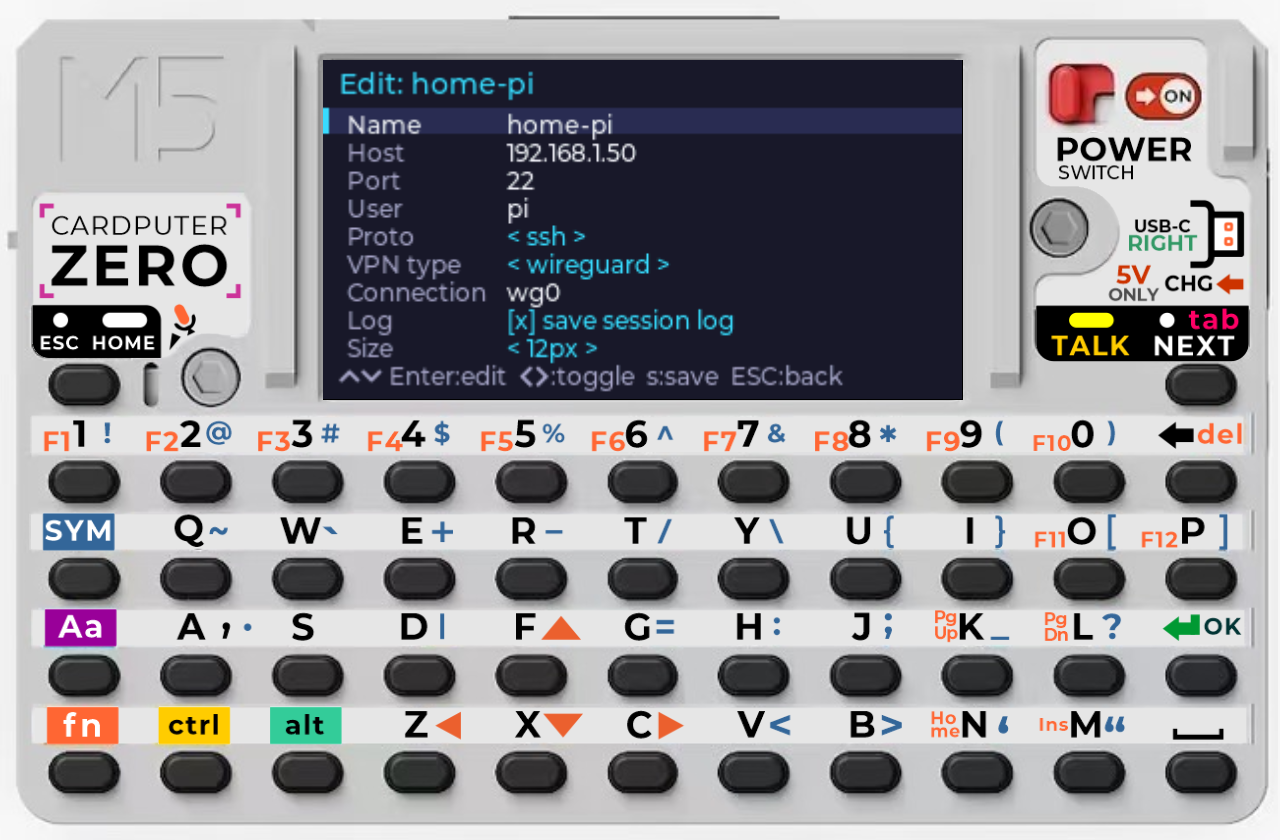
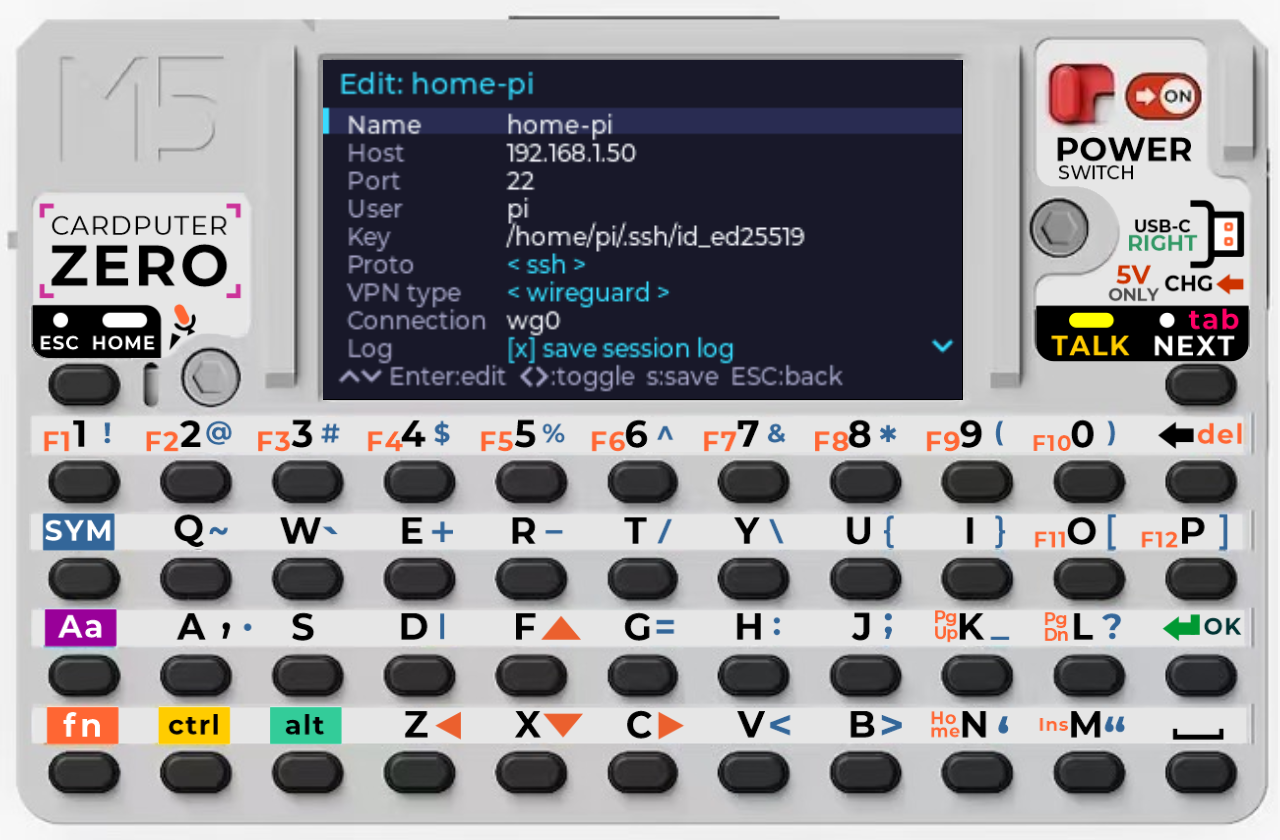
serial: format presets + Send BREAK; ssh: keep-alive + identity file; term: bold-as-bright
- serial: Format field cycles 8N1/7E1/7O1/8N2 -> picocom -d/-y/-p;
  Session Menu gains "Send BREAK" (serial sessions only; picocom
  escape C-a C-b — verify on device) for router password recovery.
  Menu items are now built per open (dynamic list).
- ssh: ServerAliveInterval=30/CountMax=3 always on so flaky-link
  drops surface as DISCONNECTED within ~90s; optional per-profile
  Key field -> `-i <path>`.
- term.c: bold attribute brightens the foreground (bold-as-bright),
  no bold face needed.
- Manual: editor/serial screenshots regenerated (Key/Format rows),
  EN/JA editor strip, BREAK menu row, checklist items; PDF regen.

Changed region(s): [[0.25, 0.2476, 0.625, 0.4333], [0.7188, 0.4024, 0.75, 0.4333]]

diff --git a/src/main.c b/src/main.c
@@ -323,7 +323,7 @@ static void show_profiles(void)
 /* ---------------- editor (fields vary by VPN type, iPhone-style) ---------------- */
 typedef struct {
     const char *en, *ja;
-    int    kind;    /* 0=text 1=proto 2=vpntype 3=log 4=size */
+    int    kind;    /* 0=text 1=proto 2=vpntype 3=log 4=size 5=serial-format */
     char  *buf;     /* text storage (kind 0) */
     size_t sz;
     int    secret;  /* mask the value (password/secret) */
@@ -340,7 +340,10 @@ static void build_fields(profile_t *p)
     EF("Name","名前",0,p->name,sizeof p->name,0);
     EF(serial ? "Device" : "Host", serial ? "デバイス" : "ホスト",0,p->host,sizeof p->host,0);
     EF(serial ? "Baud"   : "Port", serial ? "ボーレート" : "ポート",0,p->port,sizeof p->port,0);
+    if (serial) EF("Format","形式",5,0,0,0);            /* 8N1 / 7E1 / 7O1 / 8N2 */
     if (!serial) EF("User","ユーザ",0,p->user,sizeof p->user,0);
+    if (!strcmp(p->proto, "ssh"))
+        EF("Key","鍵ファイル",0,p->key,sizeof p->key,0); /* optional identity (-i) */
     EF("Proto","接続種別",1,0,0,0);
     if (!serial) {   /* VPN is meaningless for a local serial console */
         EF("VPN type","VPN方式",2,0,0,0);
@@ -369,6 +372,7 @@ static void field_value(profile_t *p, int f, char *out, size_t n)
     case 2: snprintf(out, n, "< %s >", p->vpn_type[0] ? p->vpn_type : "none"); break;
     case 3: snprintf(out, n, tr("[%s] save session log","[%s] セッションログ保存"), p->log ? "x" : " "); break;
     case 4: snprintf(out, n, "< %spx >", p->size[0] ? p->size : "12"); break;
+    case 5: snprintf(out, n, "< %s >", p->sfmt[0] ? p->sfmt : "8N1"); break;
     default:
         if (e->secret && e->buf && e->buf[0]) snprintf(out, n, "********");
         else snprintf(out, n, "%s", (e->buf && e->buf[0]) ? e->buf : tr("(none)","(なし)"));
@@ -438,6 +442,12 @@ static void editor_toggle(profile_t *p, int dir)
     case 4: {
         int idx = (size_to_idx(p->size) + (dir >= 0 ? 1 : 2)) % 3;
         snprintf(p->size, sizeof(p->size), "%d", SIZES[idx]); break; }
+    case 5: {   /* serial format presets (network-gear console defaults) */
+        static const char *const SFMTS[] = { "8N1", "7E1", "7O1", "8N2" };
+        int m = 4, cur = 0;
+        for (int i = 0; i < m; i++) if (!strcmp(p->sfmt, SFMTS[i])) cur = i;
+        snprintf(p->sfmt, sizeof(p->sfmt), "%s", SFMTS[(cur + (dir >= 0 ? 1 : m - 1)) % m]);
+        break; }
     }
 }
 
@@ -958,15 +968,33 @@ static void term_alt_scroll(uint32_t base)
     scroll_hint(term_scroll_pos() > 0);
 }
 
-#define MENU_N 6
-static const char *menu_label(int i)
+/* menu items are built per open: BREAK appears only for a serial console */
+enum { MI_SEND, MI_FONT, MI_MACROS, MI_LOG, MI_BREAK, MI_CLOSE, MI_BACK };
+static int g_menu_items[8], g_menu_n;
+
+static void build_menu(void)
 {
-    switch (i) {
-    case 0: return tr("Send file...","ファイル流し込み...");
-    case 2: return tr("Macros...","マクロ...");
-    case 3: return tr("Toggle log","ログ ON/OFF");
-    case 4: return tr("Close session","切断");
-    case 5: return tr("Back","戻る");
+    int n = 0;
+    g_menu_items[n++] = MI_SEND;
+    g_menu_items[n++] = MI_FONT;
+    g_menu_items[n++] = MI_MACROS;
+    g_menu_items[n++] = MI_LOG;
+    const profile_t *p = config_get(g_cur_pidx);
+    if (p && !strcmp(p->proto, "serial")) g_menu_items[n++] = MI_BREAK;
+    g_menu_items[n++] = MI_CLOSE;
+    g_menu_items[n++] = MI_BACK;
+    g_menu_n = n;
+}
+
+static const char *menu_label(int id)
+{
+    switch (id) {
+    case MI_SEND:   return tr("Send file...","ファイル流し込み...");
+    case MI_MACROS: return tr("Macros...","マクロ...");
+    case MI_LOG:    return tr("Toggle log","ログ ON/OFF");
+    case MI_BREAK:  return tr("Send BREAK","BREAK送信");
+    case MI_CLOSE:  return tr("Close session","切断");
+    case MI_BACK:   return tr("Back","戻る");
     }
     return "";
 }
@@ -974,20 +1002,24 @@ static const char *menu_label(int i)
 static void open_menu(void)   /* uses current g_menu_sel (caller resets for a fresh open) */
 {
     g_scr = SCR_MENU;
-    g_overlay = overlay_panel(200, 144);
+    build_menu();
+    if (g_menu_sel >= g_menu_n) g_menu_sel = g_menu_n - 1;
+    g_overlay = overlay_panel(200, 36 + g_menu_n * 18);
     lv_obj_t *t = lv_label_create(g_overlay);
     lv_obj_set_style_text_font(t, ui_font(14), 0);
     lv_obj_set_style_text_color(t, lv_color_hex(COL_TITLE), 0);
     lv_obj_set_pos(t, 8, 4);
     lv_label_set_text(t, tr("Session","セッション"));
-    for (int i = 0; i < MENU_N; i++) {
+    for (int i = 0; i < g_menu_n; i++) {
         lv_obj_t *l = lv_label_create(g_overlay);
         lv_obj_set_style_text_font(l, ui_font(12), 0);
         lv_obj_set_style_text_color(l, lv_color_hex(i == g_menu_sel ? COL_TEXT : COL_DIM), 0);
         lv_obj_set_pos(l, 12, 24 + i * 18);
         char lbl[48];
-        if (i == 1) snprintf(lbl, sizeof(lbl), tr("Font size  < %dpx >","文字サイズ < %dpx >"), SIZES[g_size_idx]);
-        else        snprintf(lbl, sizeof(lbl), "%s", menu_label(i));
+        if (g_menu_items[i] == MI_FONT)
+            snprintf(lbl, sizeof(lbl), tr("Font size  < %dpx >","文字サイズ < %dpx >"), SIZES[g_size_idx]);
+        else
+            snprintf(lbl, sizeof(lbl), "%s", menu_label(g_menu_items[i]));
         lv_label_set_text(l, lbl);
     }
 }
@@ -1127,26 +1159,32 @@ static void key_menu(uint32_t k)
 {
     switch (k) {
     case LV_KEY_UP:    if (g_menu_sel > 0) { g_menu_sel--; open_menu(); } break;
-    case LV_KEY_DOWN:  if (g_menu_sel < MENU_N - 1) { g_menu_sel++; open_menu(); } break;
+    case LV_KEY_DOWN:  if (g_menu_sel < g_menu_n - 1) { g_menu_sel++; open_menu(); } break;
     case LV_KEY_ESC:   close_overlay(); break;
     case LV_KEY_ENTER:
-        switch (g_menu_sel) {
-        case 0: g_file_sel = 0;                                /* Send file */
+        switch (g_menu_items[g_menu_sel]) {
+        case MI_SEND: g_file_sel = 0;
             snprintf(g_browse_dir, sizeof(g_browse_dir), "%s", filedir());
             open_files(); break;
-        case 1:                                               /* Font size (live) */
+        case MI_FONT:                                         /* Font size (live) */
             load_font_idx((g_size_idx + 1) % 3);
             term_resize(g_mono, g_cols, g_rows, g_cw, g_ch);
             open_menu();                                      /* refresh label */
             break;
-        case 2: g_mac_sel = 0; open_macros(); break;          /* Macros (overlay; term stays behind) */
-        case 3:                                               /* Toggle log */
+        case MI_MACROS: g_mac_sel = 0; open_macros(); break;  /* overlay; term stays behind */
+        case MI_LOG:
             if (logsink_is_open()) logsink_close();
             else logsink_open(config_get(g_cur_pidx) ? config_get(g_cur_pidx)->name : "session");
             close_overlay();
             break;
-        case 4: close_overlay(); end_session(); break;
-        case 5: close_overlay(); break;
+        case MI_BREAK:
+            /* picocom escape: C-a C-b = send BREAK (router password recovery).
+             * Device checklist: verify the sequence against the installed picocom. */
+            term_send_bytes("\x01\x02", 2);
+            close_overlay();
+            break;
+        case MI_CLOSE: close_overlay(); end_session(); break;
+        case MI_BACK:  close_overlay(); break;
         }
         break;
     }

diff --git a/src/config.c b/src/config.c
@@ -28,6 +28,8 @@ static void set_field(profile_t *p, const char *key, const char *val)
     else if (!strcmp(key, "host"))  snprintf(p->host, sizeof(p->host), "%s", val);
     else if (!strcmp(key, "port"))  snprintf(p->port, sizeof(p->port), "%s", val);
     else if (!strcmp(key, "user"))  snprintf(p->user, sizeof(p->user), "%s", val);
+    else if (!strcmp(key, "key"))   snprintf(p->key, sizeof(p->key), "%s", val);
+    else if (!strcmp(key, "sfmt"))  snprintf(p->sfmt, sizeof(p->sfmt), "%s", val);
     else if (!strcmp(key, "vpn_type")) snprintf(p->vpn_type, sizeof(p->vpn_type), "%s", val);
     else if (!strcmp(key, "vpn"))   snprintf(p->vpn, sizeof(p->vpn), "%s", val);
     /* legacy vpn_server/user/pass/secret keys are intentionally ignored — secrets
@@ -118,6 +120,8 @@ int config_save(void)
         fprintf(f, "p%d.host=%s\n",  i, p->host);
         fprintf(f, "p%d.port=%s\n",  i, p->port);
         fprintf(f, "p%d.user=%s\n",  i, p->user);
+        fprintf(f, "p%d.key=%s\n",   i, p->key);
+        fprintf(f, "p%d.sfmt=%s\n",  i, p->sfmt[0] ? p->sfmt : "8N1");
         fprintf(f, "p%d.vpn_type=%s\n", i, p->vpn_type[0] ? p->vpn_type : "none");
         fprintf(f, "p%d.vpn=%s\n",   i, p->vpn);   /* OS-side connection name; no secrets */
         fprintf(f, "p%d.log=%d\n",   i, p->log);
@@ -194,38 +198,58 @@ void config_macro_delete(int i)
 
 const char *const *config_argv(int i)
 {
-    static char a0[64], a1[8], a2[16], a3[192];
-    static const char *argv[6];
+    static char sh[64], dest[192], port[16], keyp[96];
+    static char db[4], par[4], sb[4];       /* serial: databits / parity / stopbits */
+    static const char *argv[14];
     const profile_t *p = config_get(i);
     if (!p) return NULL;
+    int n = 0;
 
     if (!strcmp(p->proto, "shell")) {
-        const char *sh = getenv("SHELL");
-        snprintf(a0, sizeof(a0), "%s", (sh && *sh) ? sh : "/bin/sh");
-        argv[0] = a0; argv[1] = NULL;
+        const char *s = getenv("SHELL");
+        snprintf(sh, sizeof(sh), "%s", (s && *s) ? s : "/bin/sh");
+        argv[n++] = sh;
+        argv[n] = NULL;
         return argv;
     }
     if (!strcmp(p->proto, "telnet")) {
-        snprintf(a0, sizeof(a0), "telnet");
-        snprintf(a3, sizeof(a3), "%s", p->host);
-        snprintf(a2, sizeof(a2), "%s", p->port[0] ? p->port : "23");
-        argv[0] = a0; argv[1] = a3; argv[2] = a2; argv[3] = NULL;
+        snprintf(dest, sizeof(dest), "%s", p->host);
+        snprintf(port, sizeof(port), "%s", p->port[0] ? p->port : "23");
+        argv[n++] = "telnet"; argv[n++] = dest; argv[n++] = port;
+        argv[n] = NULL;
         return argv;
     }
-    if (!strcmp(p->proto, "serial")) {   /* USB-serial console via picocom (host=device, port=baud) */
-        snprintf(a0, sizeof(a0), "picocom");
-        snprintf(a1, sizeof(a1), "-b");
-        snprintf(a2, sizeof(a2), "%s", p->port[0] ? p->port : "115200");
-        snprintf(a3, sizeof(a3), "%s", p->host[0] ? p->host : "/dev/ttyUSB0");
-        argv[0] = a0; argv[1] = a1; argv[2] = a2; argv[3] = a3; argv[4] = NULL;
+    if (!strcmp(p->proto, "serial")) {
+        /* USB-serial console via picocom (host=device, port=baud, sfmt=8N1 etc.) */
+        const char *f = (p->sfmt[0] && p->sfmt[1] && p->sfmt[2]) ? p->sfmt : "8N1";
+        snprintf(port, sizeof(port), "%s", p->port[0] ? p->port : "115200");
+        snprintf(dest, sizeof(dest), "%s", p->host[0] ? p->host : "/dev/ttyUSB0");
+        snprintf(db,  sizeof(db),  "%c", f[0]);                      /* 7 | 8 */
+        snprintf(par, sizeof(par), "%c", f[1] == 'E' ? 'e' : f[1] == 'O' ? 'o' : 'n');
+        snprintf(sb,  sizeof(sb),  "%c", f[2]);                      /* 1 | 2 */
+        argv[n++] = "picocom";
+        argv[n++] = "-b"; argv[n++] = port;
+        argv[n++] = "-d"; argv[n++] = db;
+        argv[n++] = "-y"; argv[n++] = par;
+        argv[n++] = "-p"; argv[n++] = sb;
+        argv[n++] = dest;
+        argv[n] = NULL;
         return argv;
     }
-    /* ssh (default) */
-    snprintf(a0, sizeof(a0), "ssh");
-    snprintf(a1, sizeof(a1), "-p");
-    snprintf(a2, sizeof(a2), "%s", p->port[0] ? p->port : "22");
-    if (p->user[0]) snprintf(a3, sizeof(a3), "%s@%s", p->user, p->host);
-    else            snprintf(a3, sizeof(a3), "%s", p->host);
-    argv[0] = a0; argv[1] = a1; argv[2] = a2; argv[3] = a3; argv[4] = NULL;
+    /* ssh (default): keep-alive so flaky field Wi-Fi drops are detected, and an
+     * optional per-profile identity file. */
+    snprintf(port, sizeof(port), "%s", p->port[0] ? p->port : "22");
+    if (p->user[0]) snprintf(dest, sizeof(dest), "%s@%s", p->user, p->host);
+    else            snprintf(dest, sizeof(dest), "%s", p->host);
+    argv[n++] = "ssh";
+    argv[n++] = "-p"; argv[n++] = port;
+    argv[n++] = "-o"; argv[n++] = "ServerAliveInterval=30";
+    argv[n++] = "-o"; argv[n++] = "ServerAliveCountMax=3";
+    if (p->key[0]) {
+        snprintf(keyp, sizeof(keyp), "%s", p->key);
+        argv[n++] = "-i"; argv[n++] = keyp;
+    }
+    argv[n++] = dest;
+    argv[n] = NULL;
     return argv;
 }

diff --git a/src/term.c b/src/term.c
@@ -86,7 +86,8 @@ static uint32_t cell_rgb(VTermScreenCell *cell)
     return ((uint32_t)c.rgb.red << 16) | ((uint32_t)c.rgb.green << 8) | c.rgb.blue;
 }
 
-/* fg/bg (as RGB) + underline for a live cell, applying reverse-video (swap fg/bg). */
+/* fg/bg (as RGB) + underline for a live cell: bold brightens the foreground
+ * ("bold as bright", no bold face needed), then reverse-video swaps fg/bg. */
 static void cell_colors(VTermScreenCell *cell, uint32_t *fg, uint32_t *bg, int *ul)
 {
     VTermColor f = cell->fg, b = cell->bg;
@@ -94,6 +95,11 @@ static void cell_colors(VTermScreenCell *cell, uint32_t *fg, uint32_t *bg, int *
     vterm_screen_convert_color_to_rgb(g.vts, &b);
     uint32_t frgb = ((uint32_t)f.rgb.red << 16) | ((uint32_t)f.rgb.green << 8) | f.rgb.blue;
     uint32_t brgb = ((uint32_t)b.rgb.red << 16) | ((uint32_t)b.rgb.green << 8) | b.rgb.blue;
+    if (cell->attrs.bold) {
+        uint32_t r = (frgb >> 16) & 0xFF, gg = (frgb >> 8) & 0xFF, bl = frgb & 0xFF;
+        r += (255 - r) / 3; gg += (255 - gg) / 3; bl += (255 - bl) / 3;
+        frgb = (r << 16) | (gg << 8) | bl;
+    }
     if (cell->attrs.reverse) { uint32_t t = frgb; frgb = brgb; brgb = t; }
     *fg = frgb; *bg = brgb; *ul = cell->attrs.underline ? 1 : 0;
 }

diff --git a/src/config.h b/src/config.h
@@ -12,6 +12,8 @@ typedef struct {
     char host[128];
     char port[8];
     char user[64];
+    char key[96];    /* ssh identity file (-i); empty = default keys/password */
+    char sfmt[4];    /* serial format preset: 8N1 (default) | 7E1 | 7O1 | 8N2 */
     char vpn_type[12]; /* none|wireguard|openvpn|ikev2|l2tp|tailscale */
     char vpn[96];    /* OS-side connection/config NAME to bring up. Secrets live in
                       * the OS (NetworkManager / /etc/wireguard …), never stored here. */

diff --git a/docs/MANUAL.md b/docs/MANUAL.md
@@ -50,6 +50,7 @@
 |------|------|
 | Name | 表示名 |
 | Host / Port / User | 接続先 |
+| Key | SSH の**秘密鍵ファイル**のパス（任意、ssh 時のみ表示 → `-i` で使用。空なら既定鍵/パスワード） |
 | Proto | `ssh / telnet / shell / serial`（`←→`で切替） |
 | **VPN type** | `none / WireGuard / OpenVPN / IKEv2 / L2TP / Tailscale`（iPhone風に`←→`で選択） |
 | **Connection** | OS側 VPN 接続の**名前**（NM接続名 / wg・ovpn の config名 / ipsec connection名）。**秘密情報は入力せず OS が保持**。Tailscale は不要 |
@@ -58,9 +59,13 @@
 
 操作：`↑↓`項目移動 / `Enter`テキスト編集（物理キーボードで入力→`Enter`確定）/ `←→`選択項目の切替 / `s`保存 / `ESC`戻る。
 
-> **serial（USB-シリアルコンソール）**：Proto を `serial` にすると項目が **Device**（例 `/dev/ttyUSB0`）と
-> **Baud**（例 `9600`/`115200`）に変わります（User/VPN は非表示）。接続すると `picocom` でシリアルコンソールに
-> つながります（実機に `apt install picocom` が必要）。網機器のコンソールポート接続用です。
+> **serial（USB-シリアルコンソール）**：Proto を `serial` にすると項目が **Device**（例 `/dev/ttyUSB0`）・
+> **Baud**（例 `9600`/`115200`）・**Format**（`8N1`/`7E1`/`7O1`/`8N2` を `←→` で選択）に変わります
+> （User/VPN は非表示）。接続すると `picocom` でシリアルコンソールにつながります（実機に
+> `apt install picocom` が必要）。網機器のコンソールポート接続用で、Session Menu の **Send BREAK** で
+> BREAK 信号も送れます（ルータのパスワードリカバリ等）。
+>
+> ssh は **keep-alive を常時付与**（`ServerAliveInterval=30`）するため、回線断は約90秒以内に切断として検知されます。
 
 ![serial プロファイル編集](manual/12_serial.png)
 
@@ -100,6 +105,7 @@
 | Font size `< 12px >` | フォントサイズを実行中に変更 |
 | Macros... | 登録済みコマンドを選んで送信（→ 5b章） |
 | Toggle log | ログ保存のON/OFF |
+| Send BREAK | **BREAK信号を送出**（serial 接続時のみ表示。パスワードリカバリ等） |
 | Close session | セッション終了→一覧へ |
 | Back | メニューを閉じる |
 

diff --git a/docs/FEATURES.md b/docs/FEATURES.md
@@ -9,7 +9,7 @@
 |------|:--:|
 | **libvterm(MIT)** によるVT100/ANSI完全エミュレーション（カーソル/消去/スクロール領域/挿入削除/alt-screen/DECモード/DA・DSR応答/アプリカーソルキー） | ✅ |
 | **自前 forkpty** によるPTY子プロセス管理（著作権クリーン、launcherコード非流用） | ✅ |
-| **SGRカラー**（8/16/256色・truecolor、**前景＋背景色・反転(reverse)・下線**、色ラン毎ラベル描画、既定は緑/黒＝ネイティブ忠実） | ✅ |
+| **SGRカラー**（8/16/256色・truecolor、**前景＋背景色・反転(reverse)・下線・太字（明色化）**、色ラン毎ラベル描画、既定は緑/黒＝ネイティブ忠実） | ✅ |
 | 等幅フォント = **Liberation Mono 12px → 45桁×12行**（実機常駐をfreetype読込、unscii_8フォールバック） | ✅ |
 | ブロックカーソル、readerスレッド＋40ms描画タイマ＋dirty差分 | ✅ |
 | **スクロールバック**（400行リングバッファ）：**Alt+↑↓=1行 / Alt+←→=1画面** で履歴を遡る（ライブ維持）・入力で最新へ復帰・履歴表示中はヒントバー | ✅ |
@@ -20,7 +20,10 @@
 | 機能 | 状態 |
 |------|:--:|
 | プロトコル選択：**ssh / telnet / shell（ローカル端末）/ serial（USB-シリアルコンソール）** | ✅ |
-| **serial**：`picocom -b <baud> <device>` を実行（プロファイルの Host→デバイス `/dev/ttyUSB0`、Port→ボーレート に流用。User/VPN欄は非表示） | ✅(argv) / ⏳(実機picocom) |
+| **serial**：`picocom -b <baud> -d/-y/-p <fmt> <device>` を実行（Host→デバイス、Port→ボーレート。**Format プリセット 8N1/7E1/7O1/8N2**。User/VPN欄は非表示） | ✅(argv) / ⏳(実機picocom) |
+| **serial BREAK送信**（Session Menu、serial時のみ表示。picocom escape `C-a C-b` — ルータのパスワードリカバリ用） | ✅(UI) / ⏳(実機) |
+| **ssh keep-alive**（`ServerAliveInterval=30` / `CountMax=3` を常時付与 — 現場の不安定な回線で切断を確実に検知） | ✅ |
+| **ssh 鍵ファイル指定**（プロファイル毎 Key 欄 → `-i <path>`。未指定なら従来通り） | ✅ |
 | **接続先プロファイル**（名前/ホスト/ポート/ユーザ/proto/VPN種別/**VPN接続名**/ログ/サイズ。VPN秘密情報は非保持） | ✅ |
 | 永続化：フラット key=value（`/sdcard/term.conf`、env `TERM_CONF`、初回シード） | ✅ |
 | 一覧（選択→接続）／**編集画面 CRUD**（新規`n`/編集`e`/削除`d`＋確認ダイアログ）／インライン文字入力 | ✅ |

diff --git a/README.md b/README.md
@@ -18,7 +18,8 @@ are the device's own (Liberation Mono + Alibaba PuHui Ti), not redistributed.
 | Feature | Status |
 |---|---|
 | Local shell / SSH / telnet via PTY (libvterm) | ✅ working |
-| **USB-serial console** (proto=serial → `picocom -b <baud> <device>`; Host/Port fields become Device/Baud) | ✅ argv / ⏳ device |
+| **USB-serial console** (proto=serial → picocom; Device/Baud + **format presets 8N1/7E1/7O1/8N2**, **Send BREAK** menu item) | ✅ argv / ⏳ device |
+| **ssh hardening**: keep-alive always on (ServerAliveInterval=30), per-profile **identity file** (`Key` → `-i`) | ✅ working |
 | **Quick-send macros**: save one-line commands, send from Session Menu (+Enter); in-app add/edit/delete | ✅ working |
 | Connection profiles (list / **editor** CRUD / persistence) | ✅ working |
 | Terminal render: Liberation Mono 45×12 (freetype; CJK + unscii_8 fallback) | ✅ working |
@@ -34,7 +35,7 @@ are the device's own (Liberation Mono + Alibaba PuHui Ti), not redistributed.
 | VPN bring-up: **OS-managed** — profile stores only a connection NAME (no secrets in `term.conf`); `pkexec nmcli connection up <name>` (NetworkManager), else per-tool fallback | ⏳ exec is device-only |
 | VPN readiness probe (getifaddrs) + teardown | ✅ probe / ⏳ exec is device-only |
 | Connecting overlay (VPN→probe→ssh staged) | ⏳ not yet (cosmetic) |
-| **SGR in terminal**: fg + **bg colors, reverse-video, underline** (per color-run labels; default green-on-black) | ✅ working (ls --color / htop / vim) |
+| **SGR in terminal**: fg + **bg colors, reverse-video, underline, bold-as-bright** (per color-run labels; default green-on-black) | ✅ working (ls --color / htop / vim) |
 | Ctrl combos (full set needs key_item / `LV_EVENT_KEYBOARD`) | ◐ partial on emu, full on device |
 
 ## Documentation

diff --git a/docs/DEVICE_CHECKLIST.md b/docs/DEVICE_CHECKLIST.md
@@ -28,6 +28,10 @@ Mac側の実装・検証は完了済み。残るは**実機でしか確認でき
 - [ ] **USB-シリアルコンソール** — USB-シリアル変換を挿し proto=serial（Device=`/dev/ttyUSB0`, Baud=9600等）→
       picocom 経由で網機器コンソールに入れる。切断は Close session（picocom ごと終了）。
       → デバイスが `dialout` グループ権限を要求する場合は `sudo usermod -aG dialout pi`。
+      → **Format 7E1** の機器で文字化けしないこと。**Send BREAK**（メニュー）が picocom の
+        escape `C-a C-b` として通り BREAK が出ること（違えば main.c MI_BREAK のバイト列を修正）。
+- [ ] **ssh 鍵/keep-alive** — Key に `-i` 鍵パスを入れて鍵認証で入れる。LAN を切って約90秒で
+      DISCONNECTED になる（ServerAliveInterval=30×3）。
 - [ ] **フォントサイズ** — 編集の Size、Session Menu の Font size で 12/16/20px 実行中切替（桁行が変わる）。
 - [ ] **ログ** — log=1 で接続→`/sdcard/logs/<name>-<ts>.log` 生成、ログ閲覧で ANSI除去表示・↑↓スクロール。
 - [ ] **設定流し込み** — SIDEキー→Send file→ファイル選択→**Detected: Shift_JIS** 表示→Enterで UTF-8変換送出（機器に流れる）。